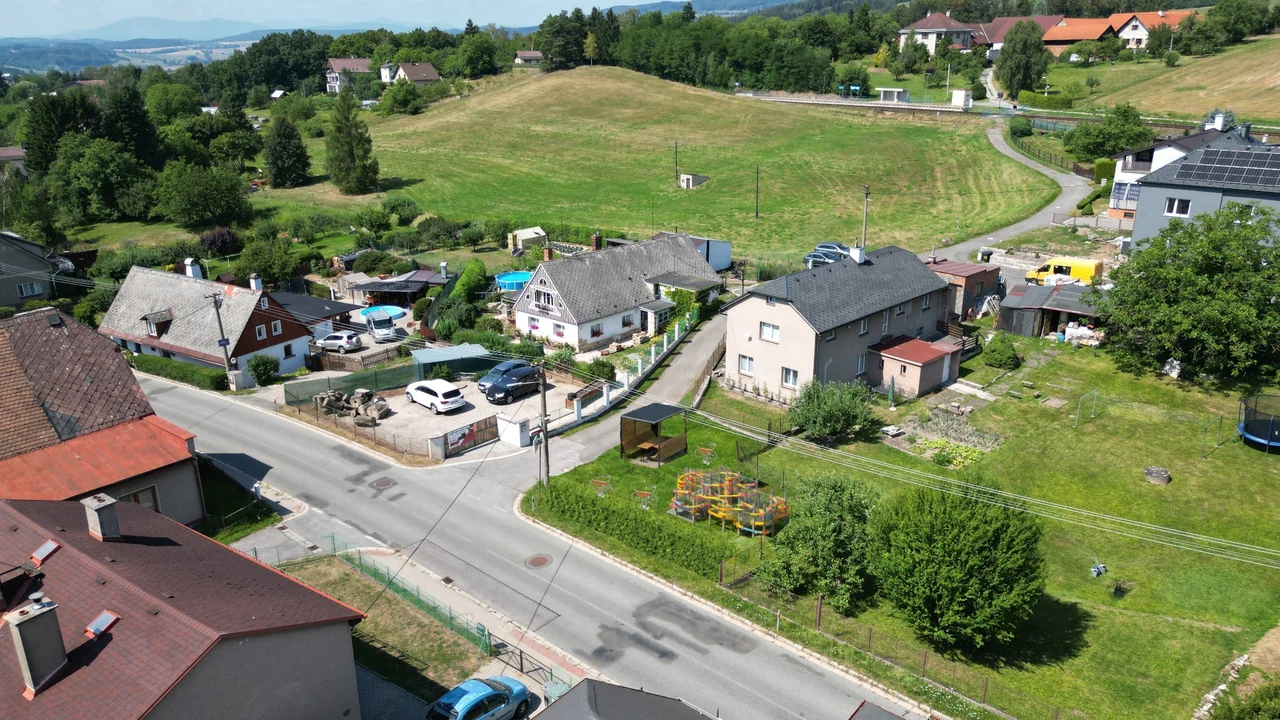
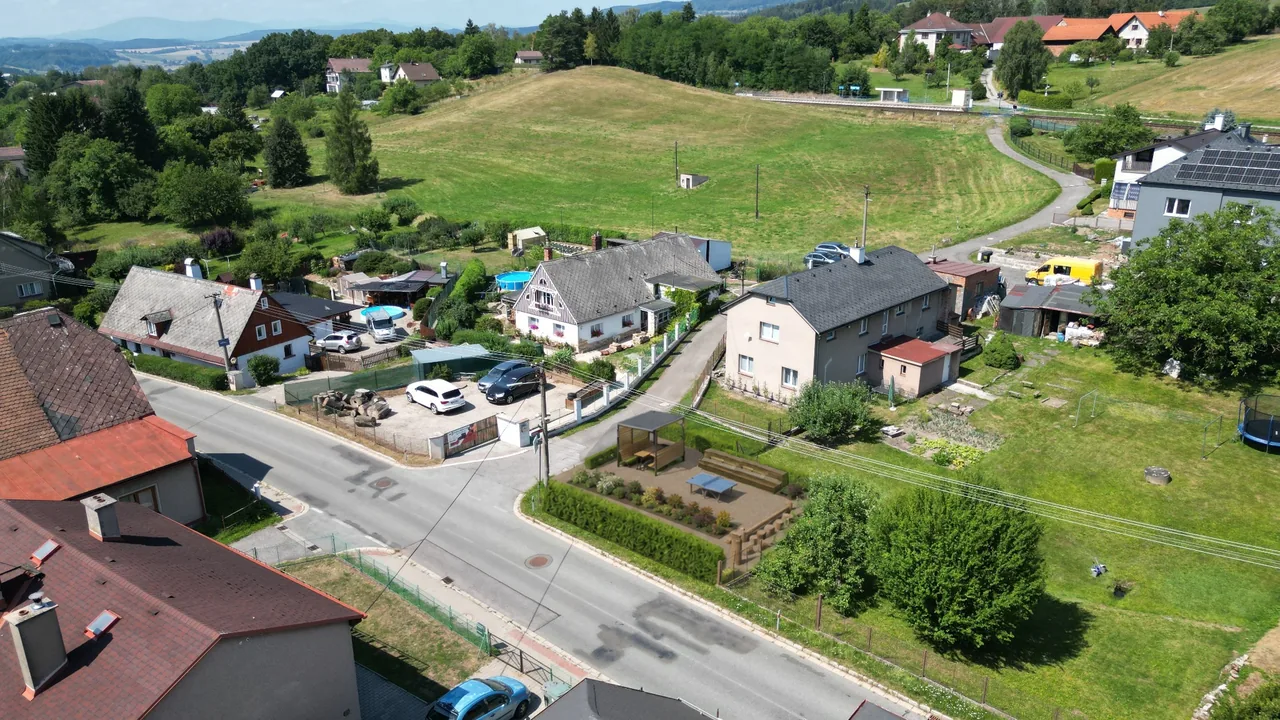
horni

Changed region(s): [[0.4062, 0.55, 0.6562, 0.825]]

diff --git a/index.html b/index.html
@@ -147,7 +147,7 @@ body.is-locked > *:not(#passwordGate){
         <button class="dropdown-toggle" type="button">Místa</button>
         <div class="dropdown-menu" aria-label="Seznam míst">
           <a href="#zabarna">Žabárna</a>
-          <a href="#horni">Hřiště na horní Rtyni</a>
+          <a href="#horni">Park na horní Rtyni</a>
           <a href="#hornicka">Hornická ulice</a>
           <a href="#dolni">Hřiště na dolní Rtyni</a>
           <a href="#centrum">Centrum města</a>
@@ -192,13 +192,13 @@ body.is-locked > *:not(#passwordGate){
       <div class="labels" aria-hidden="true"><span>Současnost</span><span>Vize budoucnosti</span></div>
     </section>
 
-    <section id="horni" class="compare page" aria-label="Hřiště na horní Rtyni">
-      <picture><source media="(max-width: 820px)" srcset="images/horni/vize-mobile.webp" type="image/webp" /><img class="compare-img compare-future" src="images/horni/vize.jpg" alt="Vize Hřiště na horní Rtyni" loading="lazy" decoding="async" /></picture>
-      <div class="compare-before"><picture><source media="(max-width: 820px)" srcset="images/horni/soucasnost-mobile.webp" type="image/webp" /><img class="compare-img compare-current" src="images/horni/soucasnost.jpg" alt="Současný stav Hřiště na horní Rtyni" loading="lazy" decoding="async" /></picture></div>
-      <input class="compare-range" type="range" min="0" max="100" value="50" aria-label="Porovnání Hřiště na horní Rtyni" />
+    <section id="horni" class="compare page" aria-label="Park na horní Rtyni">
+      <picture><source media="(max-width: 820px)" srcset="images/horni/vize-mobile.webp" type="image/webp" /><img class="compare-img compare-future" src="images/horni/vize.jpg" alt="Vize Park na horní Rtyni" loading="lazy" decoding="async" /></picture>
+      <div class="compare-before"><picture><source media="(max-width: 820px)" srcset="images/horni/soucasnost-mobile.webp" type="image/webp" /><img class="compare-img compare-current" src="images/horni/soucasnost.jpg" alt="Současný stav Park na horní Rtyni" loading="lazy" decoding="async" /></picture></div>
+      <input class="compare-range" type="range" min="0" max="100" value="50" aria-label="Porovnání Park na horní Rtyni" />
       <div class="compare-line" aria-hidden="true"><span class="handle">↔</span></div>
-      <div class="title-card"><h1>Hřiště na horní Rtyni</h1></div>
-      <div class="hotspots" data-hotspots="data/horni-hotspots.json" aria-label="Klikací body vize Hřiště na horní Rtyni"></div>
+      <div class="title-card"><h1>Park na horní Rtyni</h1></div>
+      <div class="hotspots" data-hotspots="data/horni-hotspots.json" aria-label="Klikací body vize Park na horní Rtyni"></div>
       <article class="info-card" hidden>
         <button class="card-close" aria-label="Zavřít kartu">×</button>
         <img src="" alt="" />

diff --git a/hotspot-editor.html b/hotspot-editor.html
@@ -162,7 +162,7 @@
 (() => {
   const locations = [
     {id:'zabarna', title:'Žabárna', folder:'zabarna', vision:'data/hotspots.json', current:'data/zabarna-current.json'},
-    {id:'horni', title:'Hřiště na horní Rtyni', folder:'horni', vision:'data/horni-hotspots.json', current:'data/horni-current.json'},
+    {id:'horni', title:'Park na horní Rtyni', folder:'horni', vision:'data/horni-hotspots.json', current:'data/horni-current.json'},
     {id:'hornicka', title:'Hornická ulice', folder:'hornicka', vision:'data/hornicka-hotspots.json', current:'data/hornicka-current.json'},
     {id:'dolni', title:'Hřiště na dolní Rtyni', folder:'dolni', vision:'data/dolni-hotspots.json', current:'data/dolni-current.json'},
     {id:'centrum', title:'Centrum města', folder:'centrum', vision:'data/centrum-hotspots.json', current:'data/centrum-current.json'},
